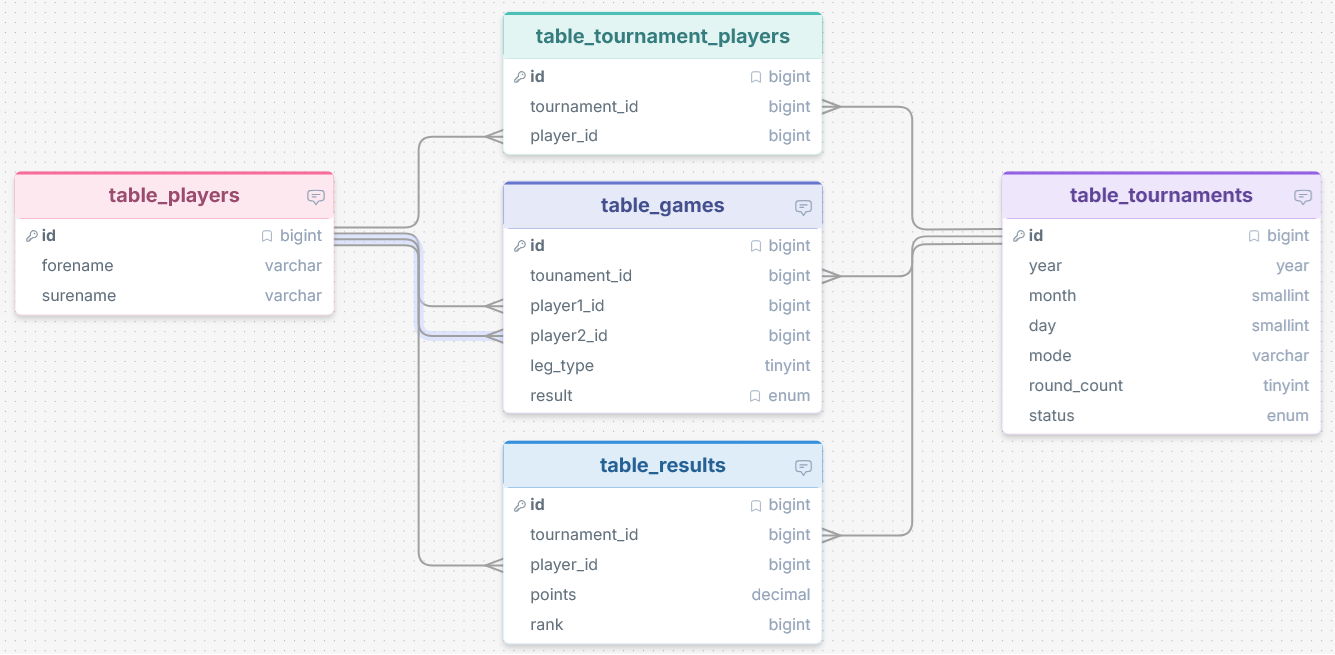
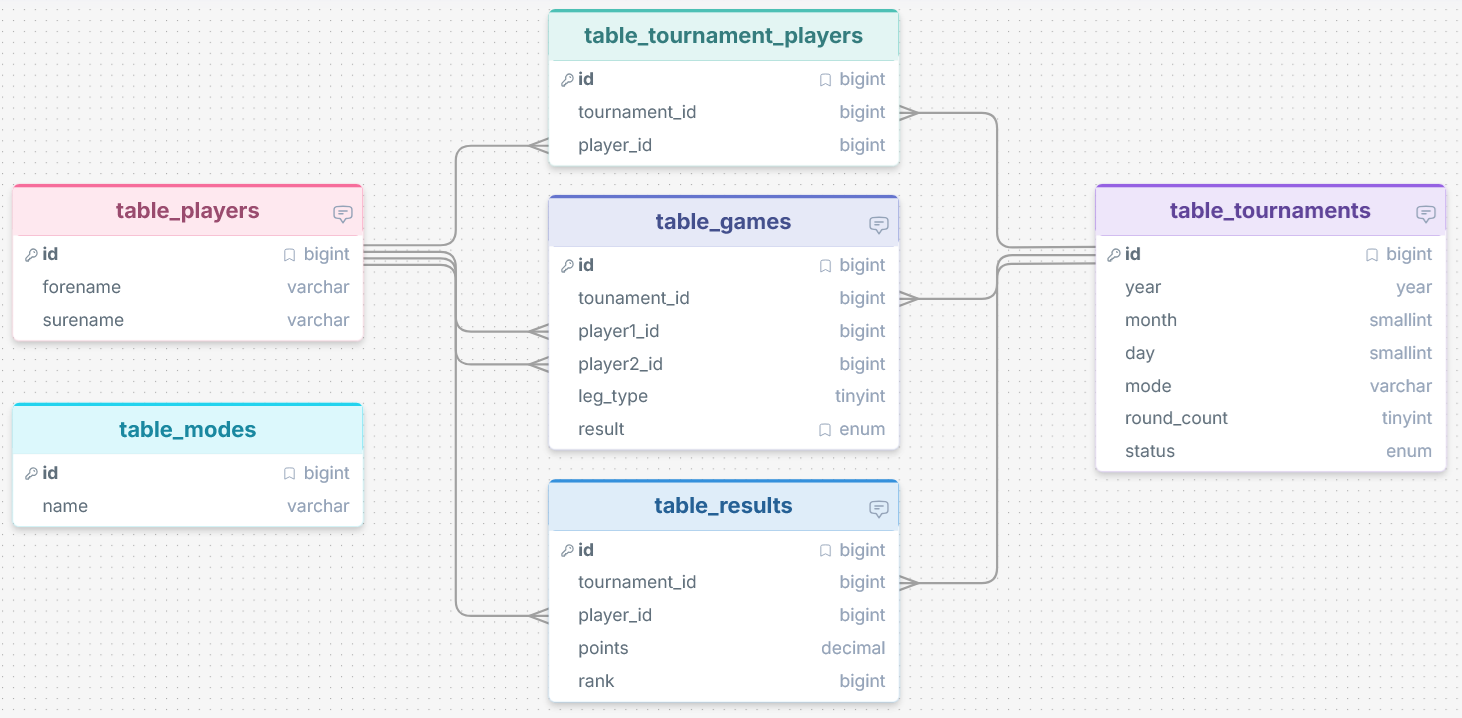
docs: update README with modes table, REST endpoints and schema description

diff --git a/README.md b/README.md
@@ -53,6 +53,7 @@ We automate the boring parts so there is more time for what really matters in cl
   - `wp_monatsblitz_tournament_players`
   - `wp_monatsblitz_games`
   - `wp_monatsblitz_results`
+  - `wp_monatsblitz_modes`
 - Provides REST API endpoints for managing players, tournaments, games, and results.
 - Creates a new published post from an existing `Template_Monatsblitz` post once a tournament is finalized.
 - Creates or updates a yearly static page (slug `blitz-YYYY`) from a configured page template.
@@ -129,6 +130,36 @@ Base path: `/wp-json/monatsblitz/v1`
 
 - `GET /players`
   - Returns all players.
+
+### Modes
+
+- `GET /modes`
+  - Returns all available modes in the catalog.
+  - Response (JSON):
+    ```json
+    [
+      { "id": 1, "name": "3+2" },
+      { "id": 2, "name": "5+0" }
+    ]
+    ```
+
+- `POST /mode`
+  - Adds a new mode to the catalog (or returns existing mode if it already exists).
+  - Body (JSON):
+    ```json
+    { "name": "10+0" }
+    ```
+  - Validation:
+    - `name`: max 50 characters, non-empty.
+    - Case-insensitive duplicate check.
+  - Response (JSON, HTTP 201 Created or HTTP 200 OK):
+    ```json
+    {
+      "success": true,
+      "id": 3,
+      "name": "10+0"
+    }
+    ```
 
 ### Tournaments
 
@@ -287,12 +318,13 @@ Base path: `/wp-json/monatsblitz/v1`
 
 The project uses a relational data model specifically designed for Monatsblitz tournament requirements.
 
-The database consists of five tables:
+The database consists of six tables:
 - monatsblitz_players: player management
 - monatsblitz_tournaments: tournament metadata
 - monatsblitz_tournament_players: assigned tournament participants
 - monatsblitz_games: all played games
 - monatsblitz_results: final results per player and tournament
+- monatsblitz_modes: mode catalog for tournament time controls
 
 The full schema is shown in the following diagram:
 
@@ -306,6 +338,7 @@ The full schema is shown in the following diagram:
 
 - monatsblitz_players: UNIQUE(forename, surname)
 - monatsblitz_tournaments: UNIQUE(year, month, day)
+- monatsblitz_modes: UNIQUE(name)
 - monatsblitz_tournament_players: UNIQUE(tournament_id, player_id)
 - monatsblitz_games: UNIQUE(tournament_id, player1_id, player2_id, leg_type)
 - monatsblitz_results: UNIQUE(tournament_id, player_id)
